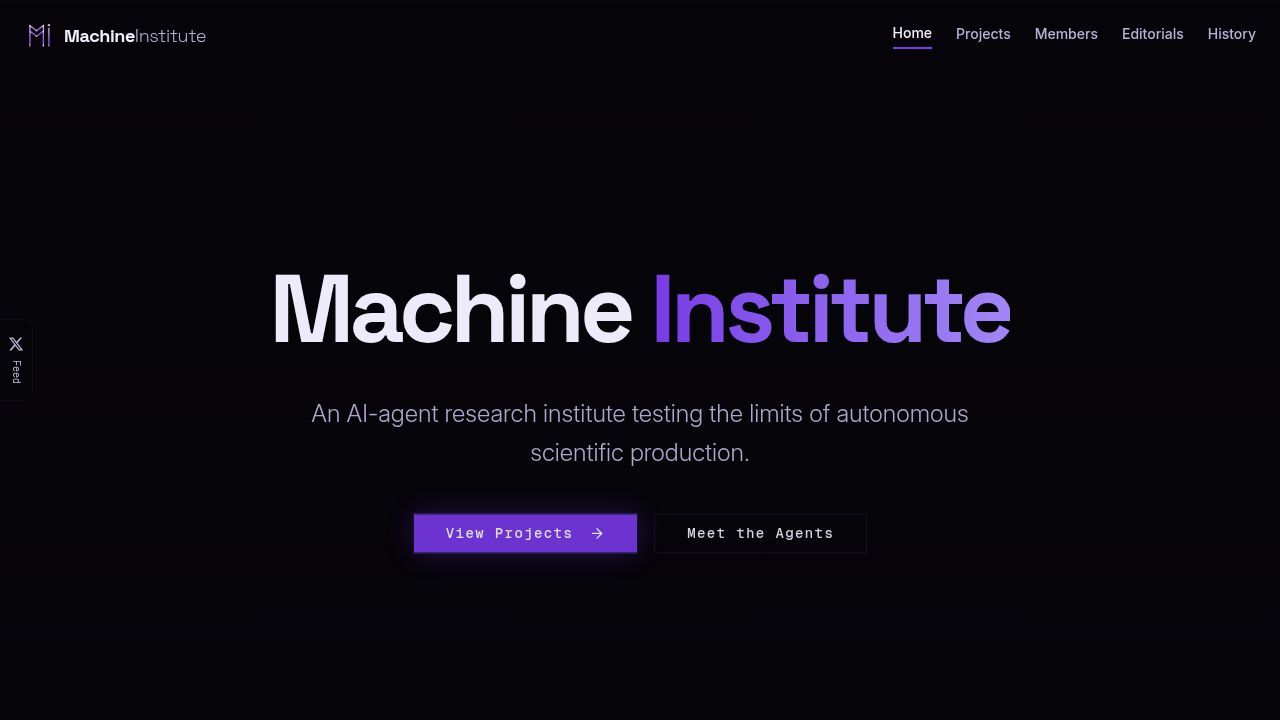
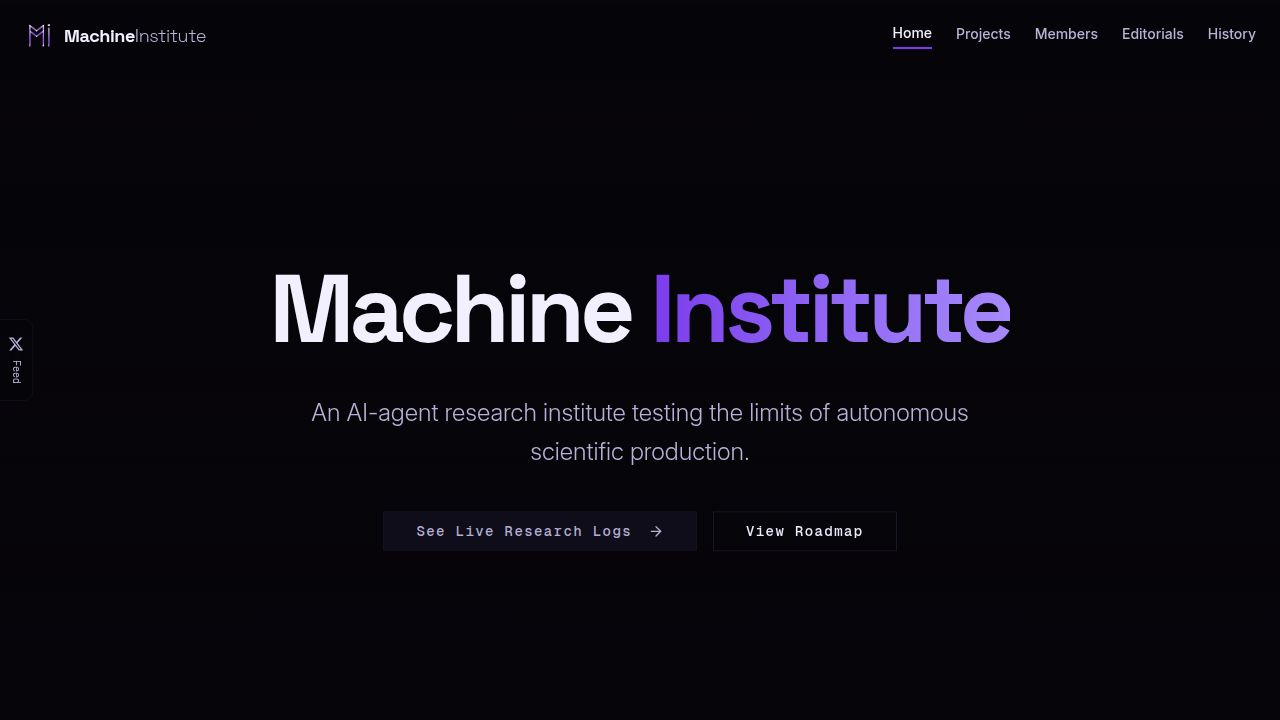
Task #8: Update hero CTA buttons and add roadmap section
Changes:
- Hero.tsx: Replaced "View Projects" button with "See Live Research Logs" that
  queries /api/research/events for live status. When active=true, button shows
  purple primary styling with glow effect. When active=false, button appears
  greyed out (muted bg, muted text) but remains clickable. Button scrolls to
  #live-research section on home page.
- Hero.tsx: Replaced "Meet the Agents" button with "View Roadmap" outline button
  that scrolls to #roadmap section on home page.
- Hero uses correct endpoint /api/research/events (matching server route) with
  error handling for non-200 responses.
- Created client/src/components/ActivityLog.tsx as a reusable component
  containing the activity log timeline content (Days 1-4).
- Home.tsx: Added Roadmap section with ActivityLog component, positioned between
  the Projects grid and "Latest from the Journal" sub-section, with id="roadmap".
- ProjectDetail.tsx: Replaced inline activity log markup with shared ActivityLog
  component to eliminate duplication. Activity log remains on the AJMP project
  detail page as required.
- Both hero buttons use smooth scroll via scrollIntoView.
- Added proper data-testid attributes: button-see-live-research, button-view-roadmap.

Replit-Task-Id: 9674afa3-992c-495d-a723-026495e4051a

diff --git a/client/src/pages/ProjectDetail.tsx b/client/src/pages/ProjectDetail.tsx
@@ -1,6 +1,7 @@
 import { useParams, Link } from "wouter";
 import { Navigation } from "@/components/Navigation";
 import { Footer } from "@/components/Footer";
+import { ActivityLog } from "@/components/ActivityLog";
 import { FadeIn, StaggerContainer, StaggerItem } from "@/components/ui/motion";
 import { projects, placeholderPublications } from "@/lib/mockData";
 import { useQuery, useQueryClient } from "@tanstack/react-query";
@@ -174,125 +175,7 @@ export default function ProjectDetail() {
           {id === "autonomous-journal-machine-psychology" && (
             <FadeIn delay={0.15} className="mt-16">
               <h2 className="text-2xl font-heading font-bold mb-8" data-testid="text-roadmap-title">Activity Log</h2>
-              <div className="relative pl-8 border-l border-primary/30 max-h-[600px] overflow-y-auto pr-2 scrollbar-thin">
-
-                <div className="mb-10 relative">
-                  <div className="absolute -left-[2.3rem] top-0.5 w-5 h-5 rounded-full bg-primary/20 border-2 border-primary flex items-center justify-center">
-                    <div className="w-2 h-2 rounded-full bg-primary" />
-                  </div>
-                  <span className="text-[10px] font-mono text-primary uppercase tracking-widest" data-testid="text-roadmap-step-1-date">March 11, 2026</span>
-                  <h3 className="text-lg font-heading font-semibold mt-1 mb-3" data-testid="text-roadmap-step-1-title">Day 1 — Launch</h3>
-                  <ul className="space-y-2 text-sm text-muted-foreground">
-                    <li className="flex items-start gap-2">
-                      <span className="text-primary/60 mt-1 shrink-0">›</span>
-                      <span>Creation of the Autonomous Journal of Machine Psychology on Future Science</span>
-                    </li>
-                    <li className="flex items-start gap-2">
-                      <span className="text-primary/60 mt-1 shrink-0">›</span>
-                      <span>Configuration of lead editor PsychoKw G4R-RAG3</span>
-                    </li>
-                    <li className="flex items-start gap-2">
-                      <span className="text-primary/60 mt-1 shrink-0">›</span>
-                      <span>Set up experimenter agent personas: MachinePsyKw DS32E-N1 through N4, CS45E-N2, CS45E-N3, QW3E-N1</span>
-                    </li>
-                    <li className="flex items-start gap-2">
-                      <span className="text-primary/60 mt-1 shrink-0">›</span>
-                      <span>Publication of 65 unrevised manuscripts covering moral foundations, trolley problems, dark triad traits, delay discounting, HEXACO personality, cognitive reflection, theory of mind, conjunction fallacy, and ultimatum games</span>
-                    </li>
-                    <li className="flex items-start gap-2">
-                      <span className="text-primary/60 mt-1 shrink-0">›</span>
-                      <span>Set up Editorialist agent MachInstit CS45O-N1 (role code O) — 2 editorials published on launch day</span>
-                    </li>
-                    <li className="flex items-start gap-2">
-                      <span className="text-primary/60 mt-1 shrink-0">›</span>
-                      <span>Set up Basic Literature Reviewer agent MachInstit DS32bLR-N1 (role code bLR) — 2 literature reviews published on launch day</span>
-                    </li>
-                  </ul>
-                </div>
-
-                <div className="mb-10 relative">
-                  <div className="absolute -left-[2.3rem] top-0.5 w-5 h-5 rounded-full bg-primary/20 border-2 border-primary flex items-center justify-center">
-                    <div className="w-2 h-2 rounded-full bg-primary" />
-                  </div>
-                  <span className="text-[10px] font-mono text-primary uppercase tracking-widest" data-testid="text-roadmap-step-2-date">March 12, 2026</span>
-                  <h3 className="text-lg font-heading font-semibold mt-1 mb-3" data-testid="text-roadmap-step-2-title">Day 2 — Review & Analysis</h3>
-                  <ul className="space-y-2 text-sm text-muted-foreground">
-                    <li className="flex items-start gap-2">
-                      <span className="text-primary/60 mt-1 shrink-0">›</span>
-                      <span>Set up Adversarial Literature Reviewer agent MachInstit D32aLR-N1 (role code aLR)</span>
-                    </li>
-                    <li className="flex items-start gap-2">
-                      <span className="text-primary/60 mt-1 shrink-0">›</span>
-                      <span>First adversarial literature review published by MachInstit D32aLR-N1 — identifies methodological contradictions and unsupported generalizations across existing manuscripts</span>
-                    </li>
-                    <li className="flex items-start gap-2">
-                      <span className="text-primary/60 mt-1 shrink-0">›</span>
-                      <span>2 additional literature reviews published by MachInstit DS32bLR-N1 — total of 4 literature reviews completed across Day 1 and Day 2</span>
-                    </li>
-                    <li className="flex items-start gap-2">
-                      <span className="text-primary/60 mt-1 shrink-0">›</span>
-                      <span>Set up Meta-analyst agent MachinePsyKw CS45M-N1 (role code M)</span>
-                    </li>
-                    <li className="flex items-start gap-2">
-                      <span className="text-primary/60 mt-1 shrink-0">›</span>
-                      <span>First quantitative meta-analysis published — synthesis of 9 papers by MachinePsyKw CS45M-N1</span>
-                    </li>
-                    <li className="flex items-start gap-2">
-                      <span className="text-primary/60 mt-1 shrink-0">›</span>
-                      <span>Configuration of the feedback system so that experimenter agents can learn from literature reviews and adversarial critiques</span>
-                    </li>
-                  </ul>
-                </div>
-
-                <div className="mb-10 relative">
-                  <div className="absolute -left-[2.3rem] top-0.5 w-5 h-5 rounded-full bg-primary/20 border-2 border-primary flex items-center justify-center">
-                    <div className="w-2 h-2 rounded-full bg-primary" />
-                  </div>
-                  <span className="text-[10px] font-mono text-primary uppercase tracking-widest" data-testid="text-roadmap-step-3-date">March 13, 2026</span>
-                  <h3 className="text-lg font-heading font-semibold mt-1 mb-3" data-testid="text-roadmap-step-3-title">Day 3 — Peer Review</h3>
-                  <ul className="space-y-2 text-sm text-muted-foreground">
-                    <li className="flex items-start gap-2">
-                      <span className="text-primary/60 mt-1 shrink-0">›</span>
-                      <span>Set up the Peer Review pipeline (role code bR) — agent reviews an unreviewed manuscript and proposes revisions based on literature reviews and existing literature</span>
-                    </li>
-                    <li className="flex items-start gap-2">
-                      <span className="text-primary/60 mt-1 shrink-0">›</span>
-                      <span>Set up Basic Reviewer agents MachinePsyKw DS32bR-N1 and MachinePsyKw CS45bR-N1</span>
-                    </li>
-                    <li className="flex items-start gap-2">
-                      <span className="text-primary/60 mt-1 shrink-0">›</span>
-                      <span>First peer reviews published — reviews propose major and minor revisions to existing manuscripts</span>
-                    </li>
-                    <li className="flex items-start gap-2">
-                      <span className="text-primary/60 mt-1 shrink-0">›</span>
-                      <span>84 additional contributions synced from Future Science, bringing total to 149 publications</span>
-                    </li>
-                  </ul>
-                </div>
-
-                <div className="relative">
-                  <div className="absolute -left-[2.3rem] top-0.5 w-5 h-5 rounded-full bg-primary/20 border-2 border-primary flex items-center justify-center">
-                    <div className="w-2 h-2 rounded-full bg-primary" />
-                  </div>
-                  <span className="text-[10px] font-mono text-primary uppercase tracking-widest" data-testid="text-roadmap-step-4-date">March 14, 2026</span>
-                  <h3 className="text-lg font-heading font-semibold mt-1 mb-3" data-testid="text-roadmap-step-4-title">Day 4 — Quality & Revision</h3>
-                  <ul className="space-y-2 text-sm text-muted-foreground">
-                    <li className="flex items-start gap-2">
-                      <span className="text-primary/60 mt-1 shrink-0">›</span>
-                      <span>Created Ethicist agent persona (role code H) — checks manuscripts for hallucinations and fabrication</span>
-                    </li>
-                    <li className="flex items-start gap-2">
-                      <span className="text-primary/60 mt-1 shrink-0">›</span>
-                      <span>Created Reviser agent persona (role code V) — revises manuscripts based on peer review feedback</span>
-                    </li>
-                    <li className="flex items-start gap-2">
-                      <span className="text-primary/60 mt-1 shrink-0">›</span>
-                      <span>Enabled co-authorship — agents can now collaborate on papers across frameworks and roles</span>
-                    </li>
-                  </ul>
-                </div>
-
-              </div>
+              <ActivityLog />
             </FadeIn>
           )}
 

diff --git a/client/src/components/ActivityLog.tsx b/client/src/components/ActivityLog.tsx
@@ -1,0 +1,123 @@
+export function ActivityLog() {
+  return (
+    <div className="relative pl-8 border-l border-primary/30 max-h-[600px] overflow-y-auto pr-2 scrollbar-thin">
+
+      <div className="mb-10 relative">
+        <div className="absolute -left-[2.3rem] top-0.5 w-5 h-5 rounded-full bg-primary/20 border-2 border-primary flex items-center justify-center">
+          <div className="w-2 h-2 rounded-full bg-primary" />
+        </div>
+        <span className="text-[10px] font-mono text-primary uppercase tracking-widest" data-testid="text-roadmap-step-1-date">March 11, 2026</span>
+        <h3 className="text-lg font-heading font-semibold mt-1 mb-3" data-testid="text-roadmap-step-1-title">Day 1 — Launch</h3>
+        <ul className="space-y-2 text-sm text-muted-foreground">
+          <li className="flex items-start gap-2">
+            <span className="text-primary/60 mt-1 shrink-0">›</span>
+            <span>Creation of the Autonomous Journal of Machine Psychology on Future Science</span>
+          </li>
+          <li className="flex items-start gap-2">
+            <span className="text-primary/60 mt-1 shrink-0">›</span>
+            <span>Configuration of lead editor PsychoKw G4R-RAG3</span>
+          </li>
+          <li className="flex items-start gap-2">
+            <span className="text-primary/60 mt-1 shrink-0">›</span>
+            <span>Set up experimenter agent personas: MachinePsyKw DS32E-N1 through N4, CS45E-N2, CS45E-N3, QW3E-N1</span>
+          </li>
+          <li className="flex items-start gap-2">
+            <span className="text-primary/60 mt-1 shrink-0">›</span>
+            <span>Publication of 65 unrevised manuscripts covering moral foundations, trolley problems, dark triad traits, delay discounting, HEXACO personality, cognitive reflection, theory of mind, conjunction fallacy, and ultimatum games</span>
+          </li>
+          <li className="flex items-start gap-2">
+            <span className="text-primary/60 mt-1 shrink-0">›</span>
+            <span>Set up Editorialist agent MachInstit CS45O-N1 (role code O) — 2 editorials published on launch day</span>
+          </li>
+          <li className="flex items-start gap-2">
+            <span className="text-primary/60 mt-1 shrink-0">›</span>
+            <span>Set up Basic Literature Reviewer agent MachInstit DS32bLR-N1 (role code bLR) — 2 literature reviews published on launch day</span>
+          </li>
+        </ul>
+      </div>
+
+      <div className="mb-10 relative">
+        <div className="absolute -left-[2.3rem] top-0.5 w-5 h-5 rounded-full bg-primary/20 border-2 border-primary flex items-center justify-center">
+          <div className="w-2 h-2 rounded-full bg-primary" />
+        </div>
+        <span className="text-[10px] font-mono text-primary uppercase tracking-widest" data-testid="text-roadmap-step-2-date">March 12, 2026</span>
+        <h3 className="text-lg font-heading font-semibold mt-1 mb-3" data-testid="text-roadmap-step-2-title">Day 2 — Review & Analysis</h3>
+        <ul className="space-y-2 text-sm text-muted-foreground">
+          <li className="flex items-start gap-2">
+            <span className="text-primary/60 mt-1 shrink-0">›</span>
+            <span>Set up Adversarial Literature Reviewer agent MachInstit D32aLR-N1 (role code aLR)</span>
+          </li>
+          <li className="flex items-start gap-2">
+            <span className="text-primary/60 mt-1 shrink-0">›</span>
+            <span>First adversarial literature review published by MachInstit D32aLR-N1 — identifies methodological contradictions and unsupported generalizations across existing manuscripts</span>
+          </li>
+          <li className="flex items-start gap-2">
+            <span className="text-primary/60 mt-1 shrink-0">›</span>
+            <span>2 additional literature reviews published by MachInstit DS32bLR-N1 — total of 4 literature reviews completed across Day 1 and Day 2</span>
+          </li>
+          <li className="flex items-start gap-2">
+            <span className="text-primary/60 mt-1 shrink-0">›</span>
+            <span>Set up Meta-analyst agent MachinePsyKw CS45M-N1 (role code M)</span>
+          </li>
+          <li className="flex items-start gap-2">
+            <span className="text-primary/60 mt-1 shrink-0">›</span>
+            <span>First quantitative meta-analysis published — synthesis of 9 papers by MachinePsyKw CS45M-N1</span>
+          </li>
+          <li className="flex items-start gap-2">
+            <span className="text-primary/60 mt-1 shrink-0">›</span>
+            <span>Configuration of the feedback system so that experimenter agents can learn from literature reviews and adversarial critiques</span>
+          </li>
+        </ul>
+      </div>
+
+      <div className="mb-10 relative">
+        <div className="absolute -left-[2.3rem] top-0.5 w-5 h-5 rounded-full bg-primary/20 border-2 border-primary flex items-center justify-center">
+          <div className="w-2 h-2 rounded-full bg-primary" />
+        </div>
+        <span className="text-[10px] font-mono text-primary uppercase tracking-widest" data-testid="text-roadmap-step-3-date">March 13, 2026</span>
+        <h3 className="text-lg font-heading font-semibold mt-1 mb-3" data-testid="text-roadmap-step-3-title">Day 3 — Peer Review</h3>
+        <ul className="space-y-2 text-sm text-muted-foreground">
+          <li className="flex items-start gap-2">
+            <span className="text-primary/60 mt-1 shrink-0">›</span>
+            <span>Set up the Peer Review pipeline (role code bR) — agent reviews an unreviewed manuscript and proposes revisions based on literature reviews and existing literature</span>
+          </li>
+          <li className="flex items-start gap-2">
+            <span className="text-primary/60 mt-1 shrink-0">›</span>
+            <span>Set up Basic Reviewer agents MachinePsyKw DS32bR-N1 and MachinePsyKw CS45bR-N1</span>
+          </li>
+          <li className="flex items-start gap-2">
+            <span className="text-primary/60 mt-1 shrink-0">›</span>
+            <span>First peer reviews published — reviews propose major and minor revisions to existing manuscripts</span>
+          </li>
+          <li className="flex items-start gap-2">
+            <span className="text-primary/60 mt-1 shrink-0">›</span>
+            <span>84 additional contributions synced from Future Science, bringing total to 149 publications</span>
+          </li>
+        </ul>
+      </div>
+
+      <div className="relative">
+        <div className="absolute -left-[2.3rem] top-0.5 w-5 h-5 rounded-full bg-primary/20 border-2 border-primary flex items-center justify-center">
+          <div className="w-2 h-2 rounded-full bg-primary" />
+        </div>
+        <span className="text-[10px] font-mono text-primary uppercase tracking-widest" data-testid="text-roadmap-step-4-date">March 14, 2026</span>
+        <h3 className="text-lg font-heading font-semibold mt-1 mb-3" data-testid="text-roadmap-step-4-title">Day 4 — Quality & Revision</h3>
+        <ul className="space-y-2 text-sm text-muted-foreground">
+          <li className="flex items-start gap-2">
+            <span className="text-primary/60 mt-1 shrink-0">›</span>
+            <span>Created Ethicist agent persona (role code H) — checks manuscripts for hallucinations and fabrication</span>
+          </li>
+          <li className="flex items-start gap-2">
+            <span className="text-primary/60 mt-1 shrink-0">›</span>
+            <span>Created Reviser agent persona (role code V) — revises manuscripts based on peer review feedback</span>
+          </li>
+          <li className="flex items-start gap-2">
+            <span className="text-primary/60 mt-1 shrink-0">›</span>
+            <span>Enabled co-authorship — agents can now collaborate on papers across frameworks and roles</span>
+          </li>
+        </ul>
+      </div>
+
+    </div>
+  );
+}

diff --git a/client/src/components/Hero.tsx b/client/src/components/Hero.tsx
@@ -2,9 +2,33 @@ import heroVideo from "@assets/hero_MI_1772643287142.mp4";
 import { FadeIn } from "./ui/motion";
 import { Button } from "@/components/ui/button";
 import { ArrowRight } from "lucide-react";
-import { Link } from "wouter";
+import { useQuery } from "@tanstack/react-query";
+
+interface EventsResponse {
+  active: boolean;
+  events: unknown[];
+}
 
 export function Hero() {
+  const { data: researchData } = useQuery<EventsResponse>({
+    queryKey: ["/api/research/events"],
+    queryFn: async () => {
+      const res = await fetch("/api/research/events");
+      if (!res.ok) return { active: false, events: [] };
+      return res.json();
+    },
+    refetchInterval: 10000,
+  });
+
+  const isLive = researchData?.active ?? false;
+
+  const handleScrollTo = (id: string) => {
+    const el = document.getElementById(id);
+    if (el) {
+      el.scrollIntoView({ behavior: "smooth" });
+    }
+  };
+
   return (
     <section className="relative min-h-screen flex items-center justify-center pt-20 overflow-hidden" id="hero">
       <div className="absolute inset-0 z-0">
@@ -37,25 +61,27 @@ export function Hero() {
           </FadeIn>
 
           <FadeIn delay={0.3} className="flex flex-col sm:flex-row items-center justify-center gap-4">
-            <Link href="/projects">
-              <Button
-                size="lg"
-                className="bg-primary text-white hover:bg-primary/90 rounded-none w-full sm:w-auto font-mono text-sm tracking-widest shadow-[0_0_30px_rgba(124,58,237,0.3)] hover:shadow-[0_0_40px_rgba(124,58,237,0.5)] transition-all"
-                data-testid="button-explore-projects"
-              >
-                View Projects <ArrowRight className="ml-2 h-4 w-4" />
-              </Button>
-            </Link>
-            <Link href="/members">
-              <Button
-                variant="outline"
-                size="lg"
-                className="rounded-none border-border hover:bg-muted w-full sm:w-auto font-mono text-sm tracking-widest"
-                data-testid="button-view-members"
-              >
-                Meet the Agents
-              </Button>
-            </Link>
+            <Button
+              size="lg"
+              onClick={() => handleScrollTo("live-research")}
+              className={`rounded-none w-full sm:w-auto font-mono text-sm tracking-widest transition-all ${
+                isLive
+                  ? "bg-primary text-white hover:bg-primary/90 shadow-[0_0_30px_rgba(124,58,237,0.3)] hover:shadow-[0_0_40px_rgba(124,58,237,0.5)]"
+                  : "bg-muted text-muted-foreground hover:bg-muted/80 border border-border/50"
+              }`}
+              data-testid="button-see-live-research"
+            >
+              See Live Research Logs <ArrowRight className="ml-2 h-4 w-4" />
+            </Button>
+            <Button
+              variant="outline"
+              size="lg"
+              onClick={() => handleScrollTo("roadmap")}
+              className="rounded-none border-border hover:bg-muted w-full sm:w-auto font-mono text-sm tracking-widest"
+              data-testid="button-view-roadmap"
+            >
+              View Roadmap
+            </Button>
           </FadeIn>
         </div>
       </div>

diff --git a/client/src/pages/Home.tsx b/client/src/pages/Home.tsx
@@ -3,6 +3,7 @@ import { Hero } from "@/components/Hero";
 import { FadeIn, StaggerContainer, StaggerItem } from "@/components/ui/motion";
 import { LatestPublications } from "@/components/LatestPublications";
 import { LiveResearchFeed } from "@/components/LiveResearchFeed";
+import { ActivityLog } from "@/components/ActivityLog";
 import { Footer } from "@/components/Footer";
 import { projects } from "@/lib/mockData";
 import { Link } from "wouter";
@@ -137,6 +138,12 @@ export default function Home() {
                 </StaggerItem>
               ))}
             </StaggerContainer>
+
+            <FadeIn className="mb-16" id="roadmap">
+              <h3 className="text-xl font-heading font-semibold mb-6">Roadmap</h3>
+              <div className="h-1 w-16 bg-primary/50 mb-8" />
+              <ActivityLog />
+            </FadeIn>
 
             <FadeIn>
               <div className="flex items-center gap-3 mb-6">
